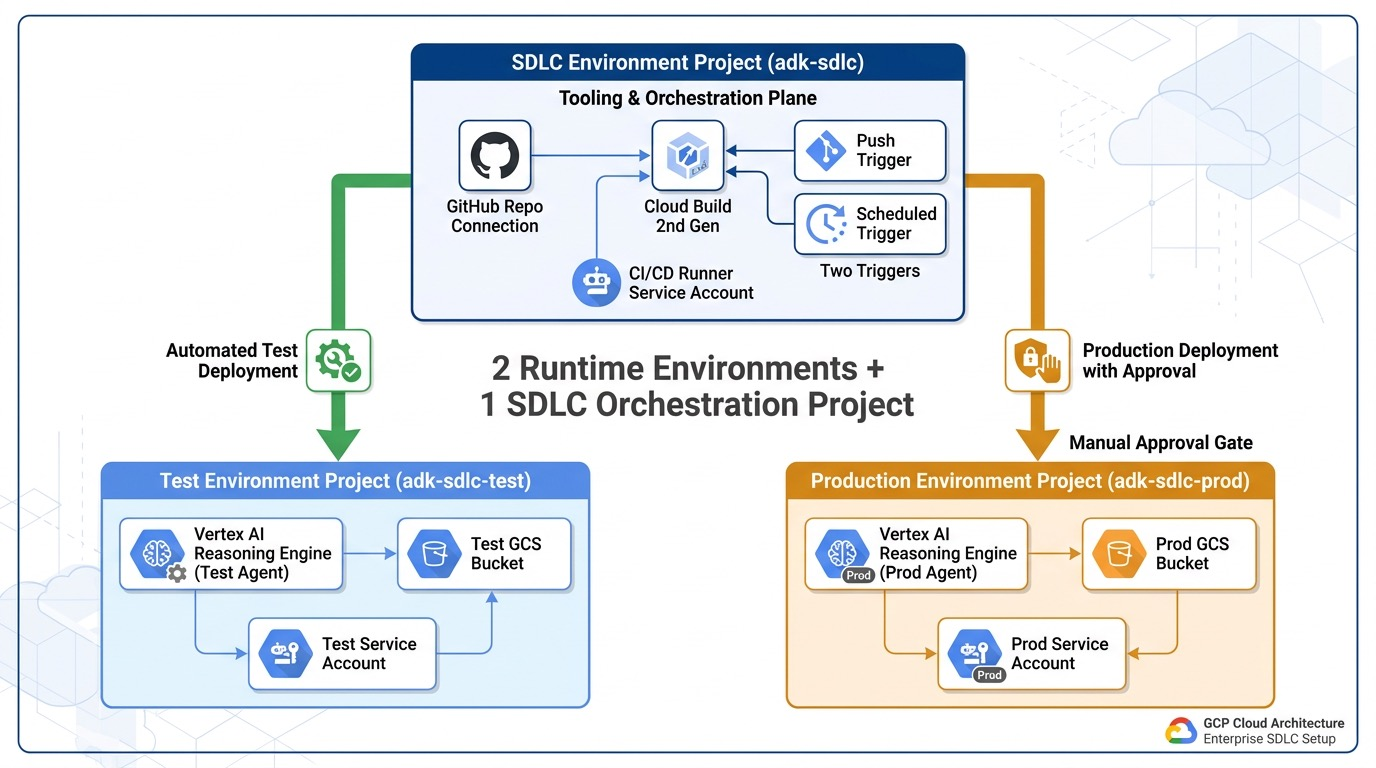
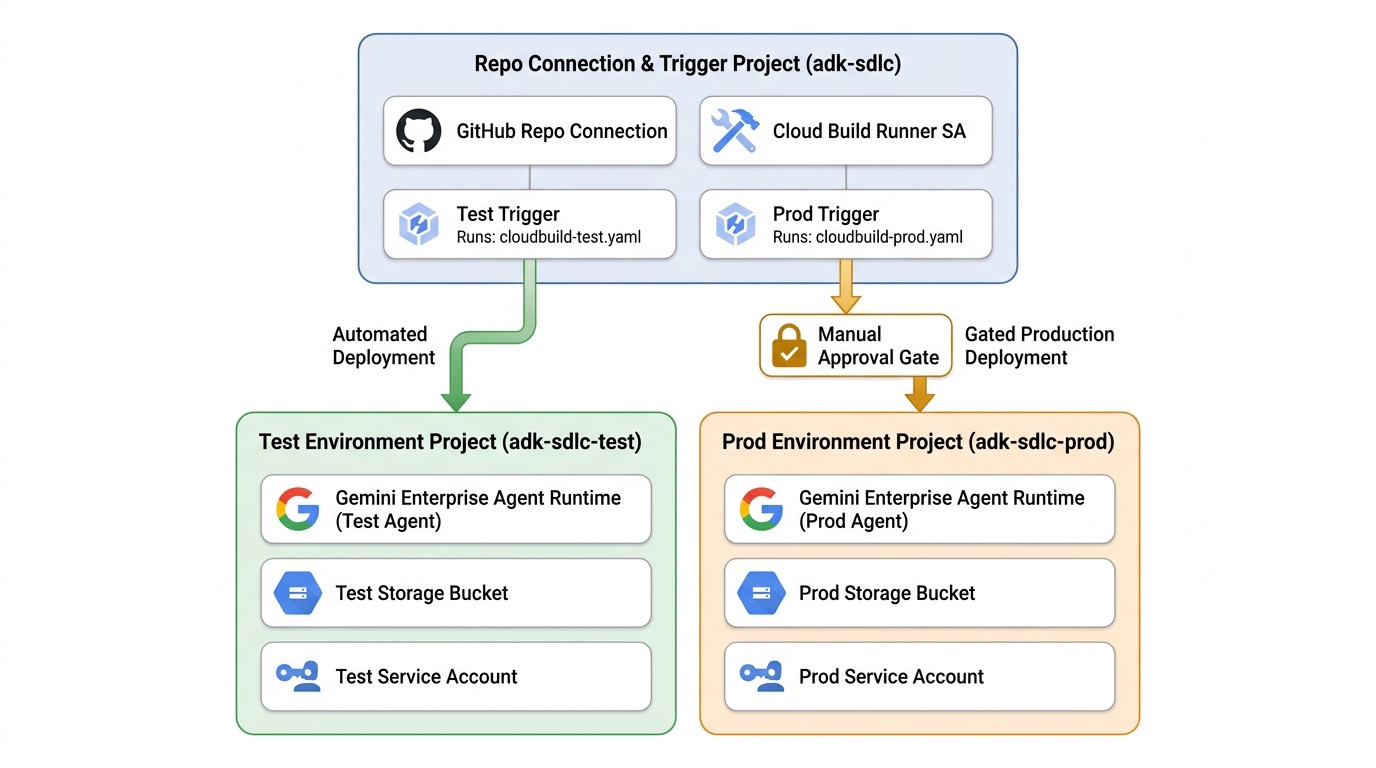
Adjusting Repo diagram

diff --git a/README.md b/README.md
@@ -97,7 +97,7 @@ To enforce environment isolation, prevent cross-project impact, and maintain sep
 +-----------------------------------------------+   +-----------------------------------------------+
 |          Test Project: [adk-sdlc-test-01]     |   |          Prod Project: [adk-sdlc-prod-01]     |
 |                                               |   |                                               |
-| - Vertex AI Reasoning Engine                  |   | - Vertex AI Reasoning Engine                  |
+| - Gemini Enterprise Agent Runtime             |   | - Gemini Enterprise Agent Runtime             |
 | - Dependent Bucket: adk-sdlc-test-01-data     |   | - Dependent Bucket: adk-sdlc-prod-01-data     |
 | - Runtime SA: sa-greeting-agent-test          |   | - Runtime SA: sa-greeting-agent-prod          |
 | - Storage Permissions: roles/storage.objectUser|  | - Storage Permissions: roles/storage.objectUser|

diff --git a/documentation/install-guide.md b/documentation/install-guide.md
@@ -22,7 +22,7 @@ The SDLC spans three isolated GCP projects ensuring defense-in-depth and environ
                     v                                       v
 +---------------------------------------+   +---------------------------------------+
 |  2. Test Project: [adk-sdlc-test-01]  |   |  3. Prod Project: [adk-sdlc-prod-01]  |
-|  - Vertex AI Reasoning Engine         |   |  - Vertex AI Reasoning Engine         |
+|  - Gemini Enterprise Agent Runtime    |   |  - Gemini Enterprise Agent Runtime    |
 |  - Dependent GCS Bucket               |   |  - Dependent GCS Bucket               |
 |  - Least-privilege Test SA            |   |  - Least-privilege Prod SA            |
 +---------------------------------------+   +---------------------------------------+
